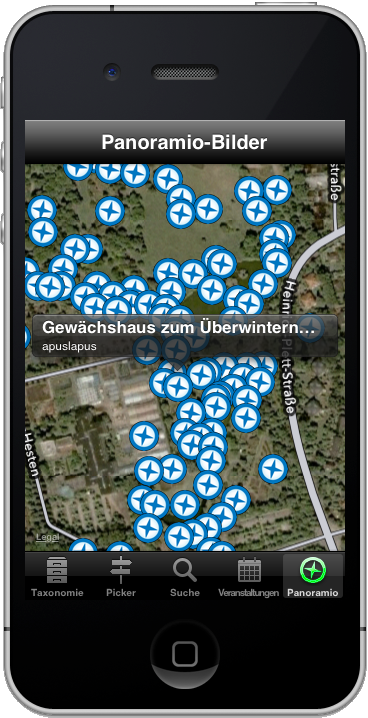
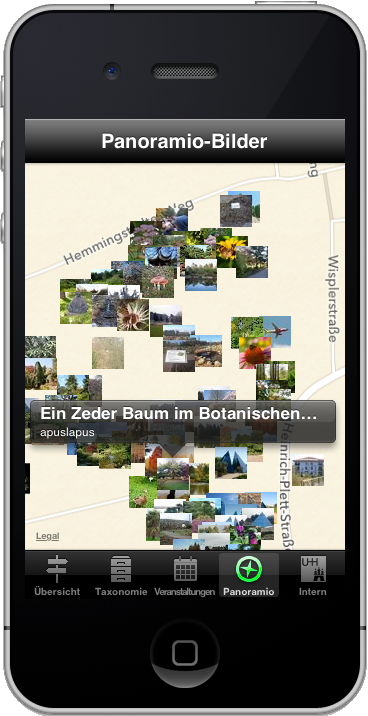
ewiges Panoramio mit Garbagecollection

diff --git a/Resources/module/panoramio.window.js b/Resources/module/panoramio.window.js
@@ -1,13 +1,38 @@
 exports.create = function() {
 	var self = require('module/win').create('Panoramio-Bilder');
-	var annotations = [];
+	var LAT = 53.5614057, LON = 9.8614097, DELTA = 0.004;
+	var Panoramio = require('vendor/panoramio');
+	var locked = false;
+	var annotations = {};
+	var updateAnnotations = function(_datas) {
+		for (var id in _datas) {
+			if (!annotations[id]) {
+				var p = _datas[id];
+				annotations[id] = Ti.Map.createAnnotation({
+					latitude : p.lat,
+					longitude : p.lon,
+					title : p.title,
+					image : '/assets/pin.png',
+					animate : false,
+					subtitle : p.owner + ' ' + p.cdate,
+					data : p,
+					imageurl : p.image,
+					ratio : p.ratio
+				});
+				Panoramio.setThumb(annotations[id]);
+				self.map.addAnnotation(annotations[id]);
+			}
+		};
+		locked = false;
+
+	};
 	self.map = Ti.Map.createView({
-		mapType : Titanium.Map.HYBRID_TYPE,
+		mapType : Titanium.Map.STANDARD_TYPE,
 		region : {
-			latitude : 53.5614057,
-			longitude : 9.8614097,
-			latitudeDelta : 0.002,
-			longitudeDelta : 0.002
+			latitude : LAT,
+			longitude : LON,
+			latitudeDelta : DELTA,
+			longitudeDelta : DELTA
 		},
 		regionFit : true,
 		userLocation : false,
@@ -20,29 +45,30 @@ exports.create = function() {
 		}
 	});
 	self.addEventListener('focus', function() {
-		if (annotations.length)
-			return;
-		require('vendor/panoramio').get({
-			lat : 53.5614057,
-			lon : 9.8614097,
-			delta : 0.004
-		}, function(_datas) {
-			for (var i = 0; i < _datas.length; i++) {
-				var p = _datas[i];
-				annotations[i] = Ti.Map.createAnnotation({
-					latitude : p.lat,
-					longitude : p.lon,
-					title : p.title,
-					image : '/assets/pin.png',
-					animate : false,
-					subtitle : p.owner,
-					data : p,
-					imageurl : p.image,
-					ratio : p.ratio
-				});
-			};
-			self.map.addAnnotations(annotations);
-		});
+		locked = true;
+		Panoramio.get({
+			lat : LAT,
+			lon : LON,
+			delta : DELTA
+		}, updateAnnotations)
 	});
+	self.map.addEventListener('regionchanged', function(_e) {
+		if (locked === true)
+			return;
+		locked = true;
+		Panoramio.get({
+			lat : _e.latitude,
+			lon : _e.longitude,
+			delta : _e.latitudeDelta
+		}, updateAnnotations);
+		// Garbage Collection:
+		for (var id in annotations) {
+			var a = annotations[id];
+			if (a.getLatitude() > _e.latitude + _e.latitudeDelta/2 || a.getLatitude() < _e.latitude - _e.latitudeDelta/2 || a.getLongitude() > _e.longitude + _e.longitudeDelta/2 || a.getLongitude() < _e.longitude - _e.longitudeDelta/2) {
+				self.map.removeAnnotation(a);
+				delete a;
+			}
+		}
+	})
 	return self;
 }

diff --git a/Resources/module/panoramioimage.window.js b/Resources/module/panoramioimage.window.js
@@ -26,9 +26,19 @@ exports.create = function(_annotation) {
 	imageContainer.add(imgView);
 	win.add(imageContainer);
 	win.add(Ti.UI.createImageView({
-		bottom : 0,right:10,
+		bottom : 20,
+		right : 10,
 		width : 160,
 		image : 'http://www.panoramio.com/img/glass/components/logo_bar/panoramio.png'
 	}));
+	win.add(Ti.UI.createLabel({
+		text : 'Photos provided by Panoramio are under the copyright of their owners',
+		bottom : 5,
+		color : 'white',
+		height : Ti.UI.SIZE,
+		font : {
+			fontSize : 9
+		}
+	}))
 	return win;
 }
